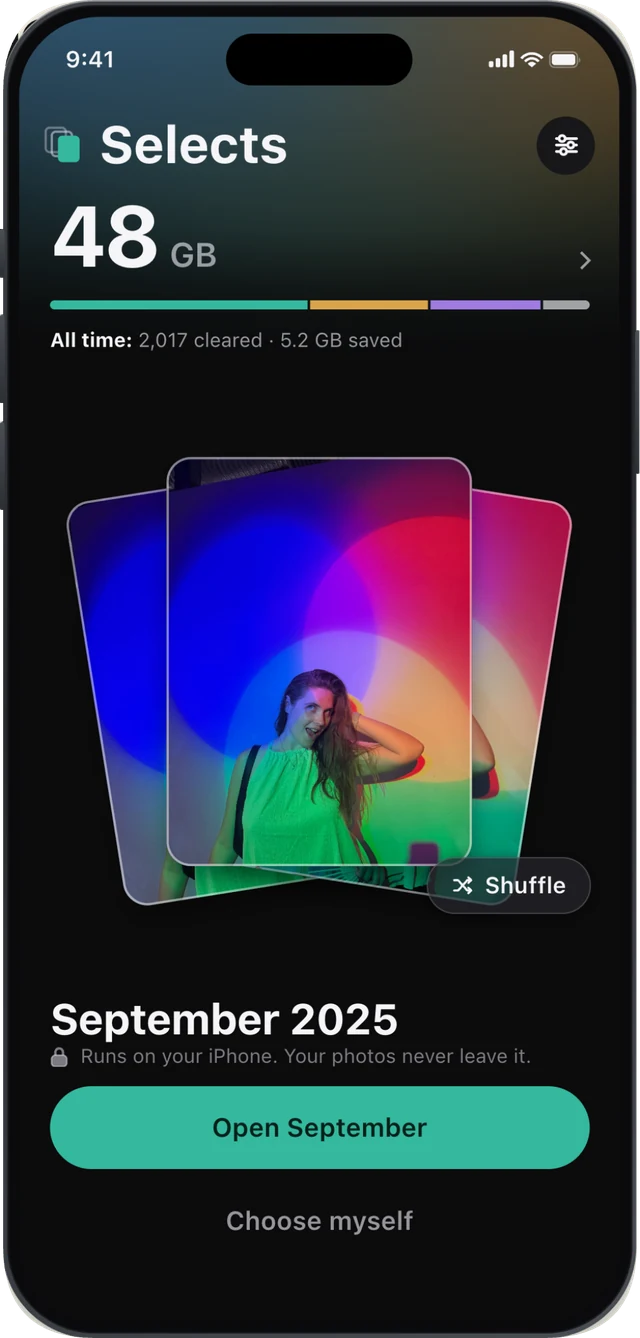
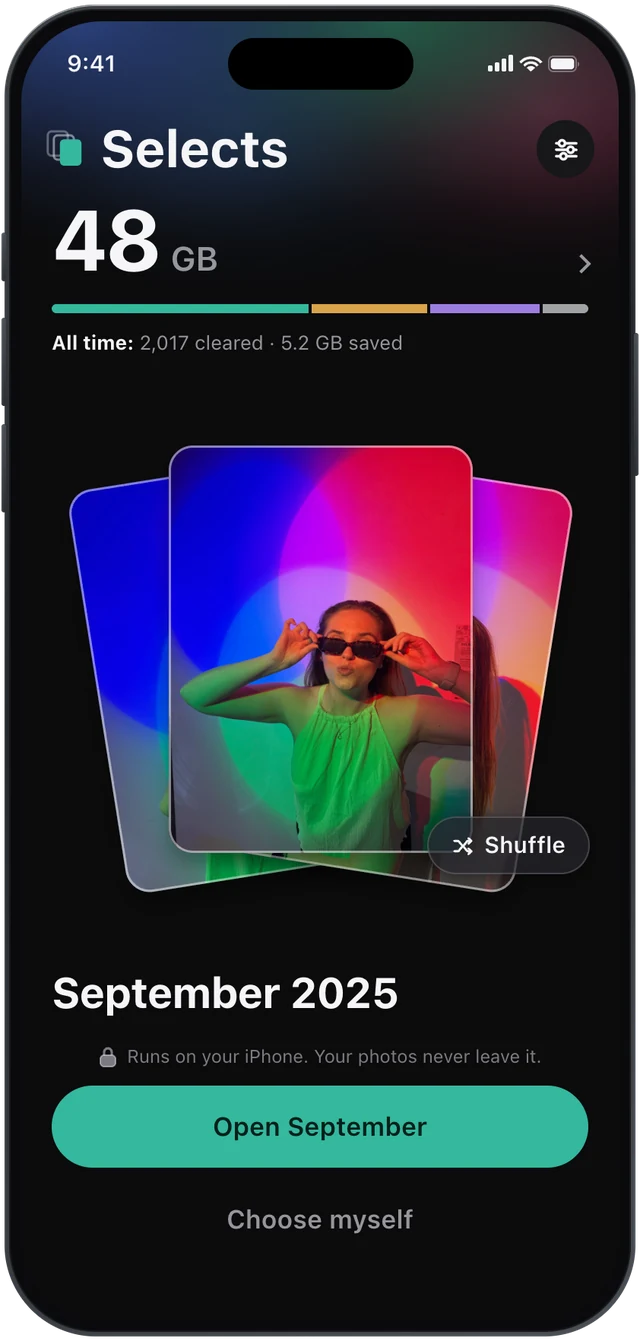
Website: drop the "three taps" claim, and a clearer hero shot
The CTA read "See how it works in three taps" and the section intro under it
ended "Three taps and a shoot is curated." Owner's call to cut it, and the count
had stopped being true anyway: the flow is four rows now, not three. Both are
gone rather than recounted, because the number was never the selling point. The
intro's first sentence stands on its own.

New Home render for the hero: same screen, a legible photo in the card fan
instead of the washed-out one. Its ratio is 0.4773 against the other four
renders' 0.4783, so the height attribute goes 1338 to 1341 to match the file
rather than stretch it.

Kept at home-v2.webp rather than bumped to v3. I had versioned it on the
thirty-day /selects/img/* cache rule, but the owner confirmed nobody has loaded
the page since that file went live, so there is no cached copy for a new name to
get past. The rule still stands for any later change.

diff --git a/app/design/website/selects.html b/app/design/website/selects.html
@@ -202,7 +202,7 @@
           <p class="lede lede-2">And a big video doesn't have to go at all. Selects makes a smaller copy and leaves your original alone.</p>
           <div class="cta-row">
             <a class="appstore" href="https://apps.apple.com/app/apple-store/id6790501172?pt=129161497&amp;ct=website&amp;mt=8" target="_blank" rel="noopener" data-evt="cta_appstore_hero"><img src="/selects/img/app-store-badge.svg" width="162" height="54" alt="Download on the App Store"></a>
-            <a class="btn-text" href="#how" data-evt="cta_how_hero">See how it works in three taps
+            <a class="btn-text" href="#how" data-evt="cta_how_hero">See how it works
               <svg width="16" height="16" viewBox="0 0 24 24" fill="none" stroke="currentColor" stroke-width="2.4" stroke-linecap="round" stroke-linejoin="round"><path d="M5 12h14M13 6l6 6-6 6"/></svg>
             </a>
           </div>
@@ -210,7 +210,7 @@
         </div>
 
         <div class="hero-phone">
-          <div class="device d-hero"><img src="/selects/img/home-v2.webp" width="640" height="1338" fetchpriority="high" alt="Selects on iPhone: 48 GB of photos and videos, 2,017 cleared all time, and a button to open September"></div>
+          <div class="device d-hero"><img src="/selects/img/home-v2.webp" width="640" height="1341" fetchpriority="high" alt="Selects on iPhone: 48 GB of photos and videos, 2,017 cleared all time, and a button to open September"></div>
         </div>
       </div>
     </div>
@@ -222,7 +222,7 @@
       <div class="sec-head">
         <p class="eyebrow">How it works</p>
         <h2>The tedious first pass, already done.</h2>
-        <p>Selects does the boring sorting, then hands you the few decisions that actually need an eye. Three taps and a shoot is curated.</p>
+        <p>Selects does the boring sorting, then hands you the few decisions that actually need an eye.</p>
       </div>
 
       <div class="flow">

diff --git a/app/design/website/site/selects/index.html b/app/design/website/site/selects/index.html
@@ -258,7 +258,7 @@
           <p class="lede lede-2">And a big video doesn't have to go at all. Selects makes a smaller copy and leaves your original alone.</p>
           <div class="cta-row">
             <a class="appstore" href="https://apps.apple.com/app/apple-store/id6790501172?pt=129161497&amp;ct=website&amp;mt=8" target="_blank" rel="noopener" data-evt="cta_appstore_hero"><img src="/selects/img/app-store-badge.svg" width="162" height="54" alt="Download on the App Store"></a>
-            <a class="btn-text" href="#how" data-evt="cta_how_hero">See how it works in three taps
+            <a class="btn-text" href="#how" data-evt="cta_how_hero">See how it works
               <svg width="16" height="16" viewBox="0 0 24 24" fill="none" stroke="currentColor" stroke-width="2.4" stroke-linecap="round" stroke-linejoin="round"><path d="M5 12h14M13 6l6 6-6 6"/></svg>
             </a>
           </div>
@@ -266,7 +266,7 @@
         </div>
 
         <div class="hero-phone">
-          <div class="device d-hero"><img src="/selects/img/home-v2.webp" width="640" height="1338" fetchpriority="high" alt="Selects on iPhone: 48 GB of photos and videos, 2,017 cleared all time, and a button to open September"></div>
+          <div class="device d-hero"><img src="/selects/img/home-v2.webp" width="640" height="1341" fetchpriority="high" alt="Selects on iPhone: 48 GB of photos and videos, 2,017 cleared all time, and a button to open September"></div>
         </div>
       </div>
     </div>
@@ -278,7 +278,7 @@
       <div class="sec-head">
         <p class="eyebrow">How it works</p>
         <h2>The tedious first pass, already done.</h2>
-        <p>Selects does the boring sorting, then hands you the few decisions that actually need an eye. Three taps and a shoot is curated.</p>
+        <p>Selects does the boring sorting, then hands you the few decisions that actually need an eye.</p>
       </div>
 
       <div class="flow">
